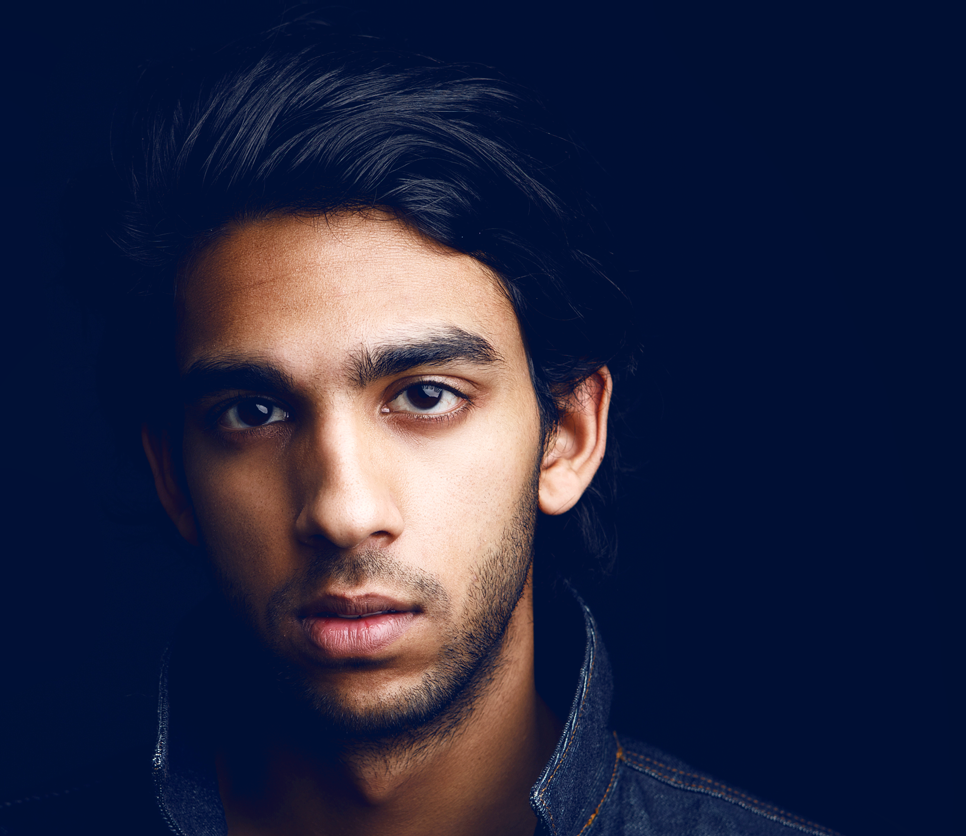
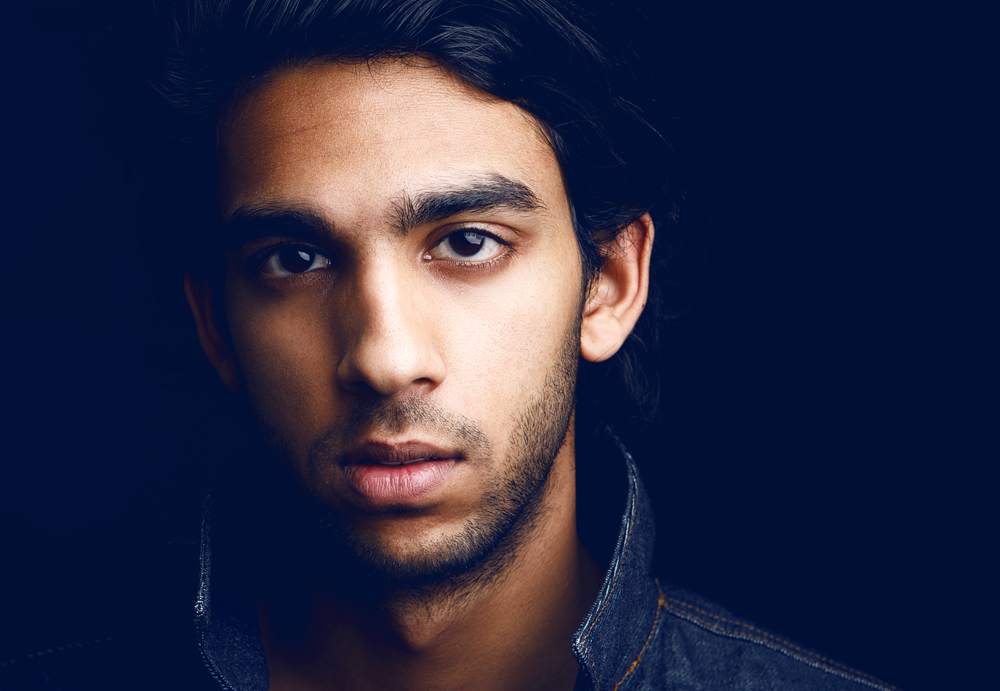
First attemp to fix top art

diff --git a/src/style/layout.less b/src/style/layout.less
@@ -77,10 +77,10 @@ p {
 
 .hero {
   position: relative;
-  background-color:#020935;
   background-image: url(../image/top_wide.png);
   background-position: left bottom;
   background-repeat: no-repeat;
+  background-size: cover;
   height: 80%;
   color: @white;
   .overlay {
@@ -90,7 +90,7 @@ p {
     bottom: 0px;
     left: 0px;
     right: 0px;
-    background-color: #020935;
+    background-color: #020934;
     opacity: .4;
   }
   .container {
